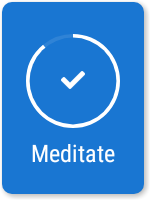
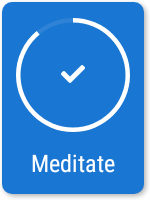
Small tweaks to CheckmarkWidget padding and aspect ratio

Changed region(s): [[0.1067, 0.09, 0.88, 0.66], [0.2133, 0.72, 0.7733, 0.87], [0.4, 0.3, 0.5867, 0.45]]

diff --git a/uhabits-android/src/main/java/org/isoron/uhabits/widgets/views/CheckmarkWidgetView.kt b/uhabits-android/src/main/java/org/isoron/uhabits/widgets/views/CheckmarkWidgetView.kt
@@ -39,6 +39,7 @@ import org.isoron.uhabits.utils.PaletteUtils.getAndroidTestColor
 import org.isoron.uhabits.utils.StyledResources
 import kotlin.math.max
 import kotlin.math.min
+import kotlin.math.roundToInt
 
 class CheckmarkWidgetView : HabitWidgetView {
     var activeColor: Int = 0
@@ -118,19 +119,25 @@ class CheckmarkWidgetView : HabitWidgetView {
         get() = R.layout.widget_checkmark
 
     override fun onMeasure(widthMeasureSpec: Int, heightMeasureSpec: Int) {
-        val width = MeasureSpec.getSize(widthMeasureSpec)
-        val height = MeasureSpec.getSize(heightMeasureSpec)
-        var textSize = 0.15f * height
-        val maxTextSize = getDimension(context, R.dimen.smallerTextSize)
-        textSize = min(textSize, maxTextSize)
+        var width = MeasureSpec.getSize(widthMeasureSpec)
+        var height = MeasureSpec.getSize(heightMeasureSpec)
+        if (height >= width) {
+            height = min(height, (width * 1.5).roundToInt())
+        } else {
+            width = min(width, height)
+        }
+        val textSize = min(0.2f * width, getDimension(context, R.dimen.smallerTextSize))
         label.setTextSize(TypedValue.COMPLEX_UNIT_PX, textSize)
         if (isNumerical) {
-            ring.setTextSize(textSize * 0.75f)
+            ring.setTextSize(textSize * 0.9f)
         } else {
             ring.setTextSize(textSize)
         }
-        ring.setThickness(0.15f * textSize)
-        super.onMeasure(widthMeasureSpec, heightMeasureSpec)
+        ring.setThickness(0.03f * width)
+        super.onMeasure(
+            MeasureSpec.makeMeasureSpec(width, MeasureSpec.EXACTLY),
+            MeasureSpec.makeMeasureSpec(height, MeasureSpec.EXACTLY)
+        )
     }
 
     private fun init() {
